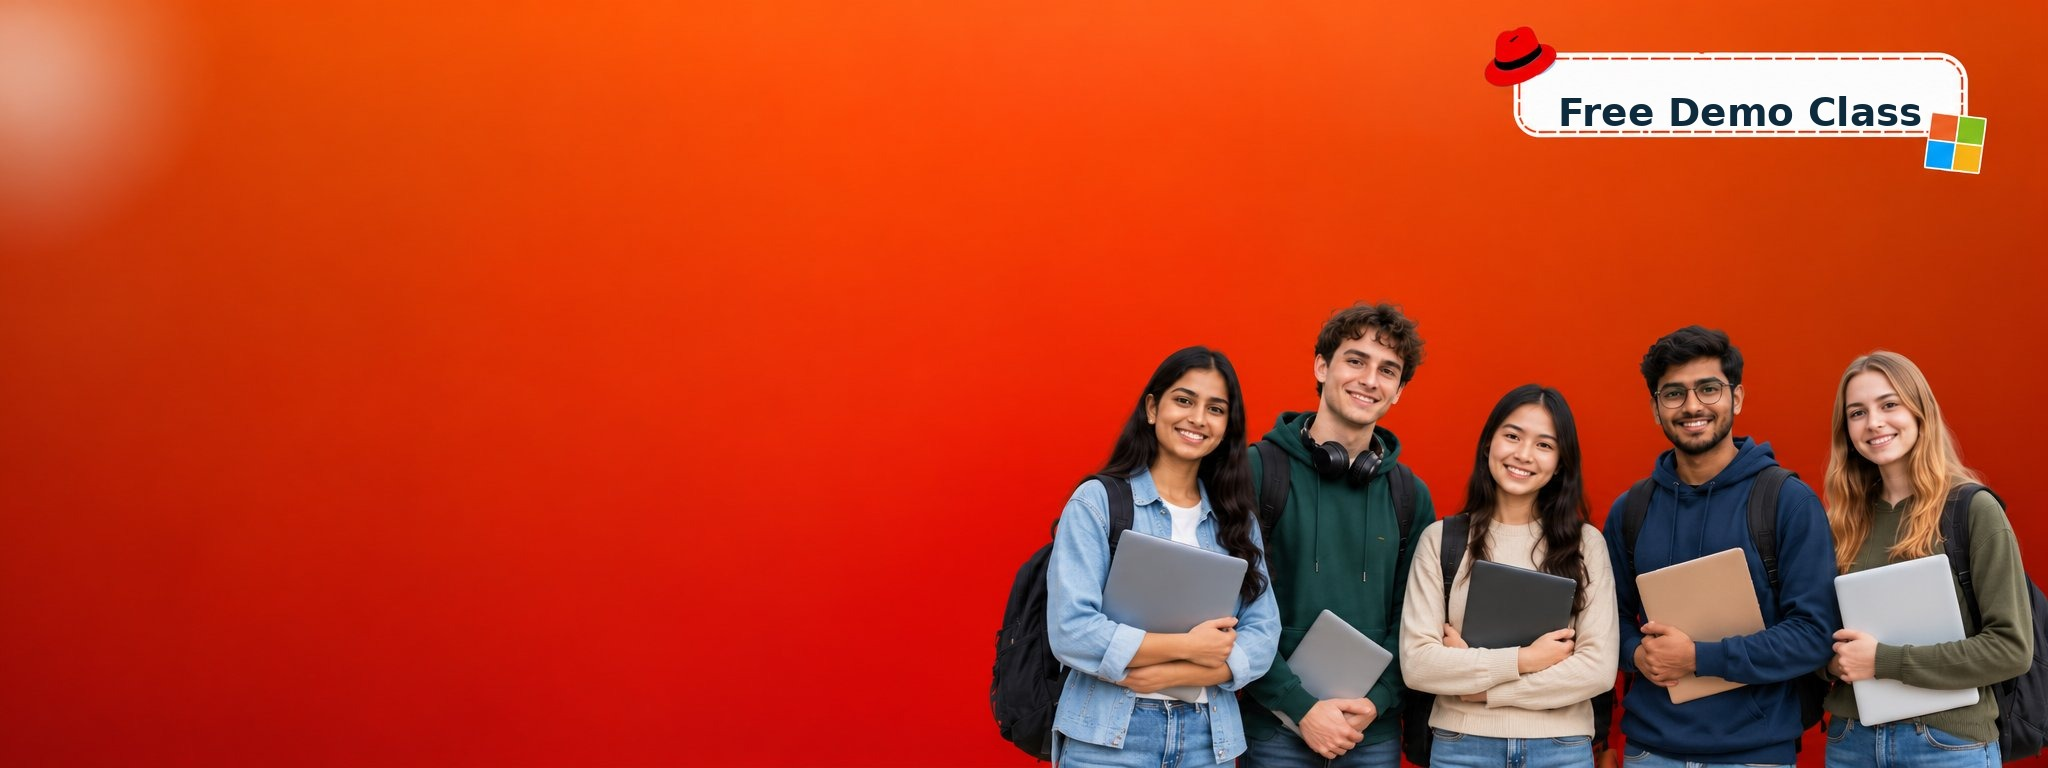
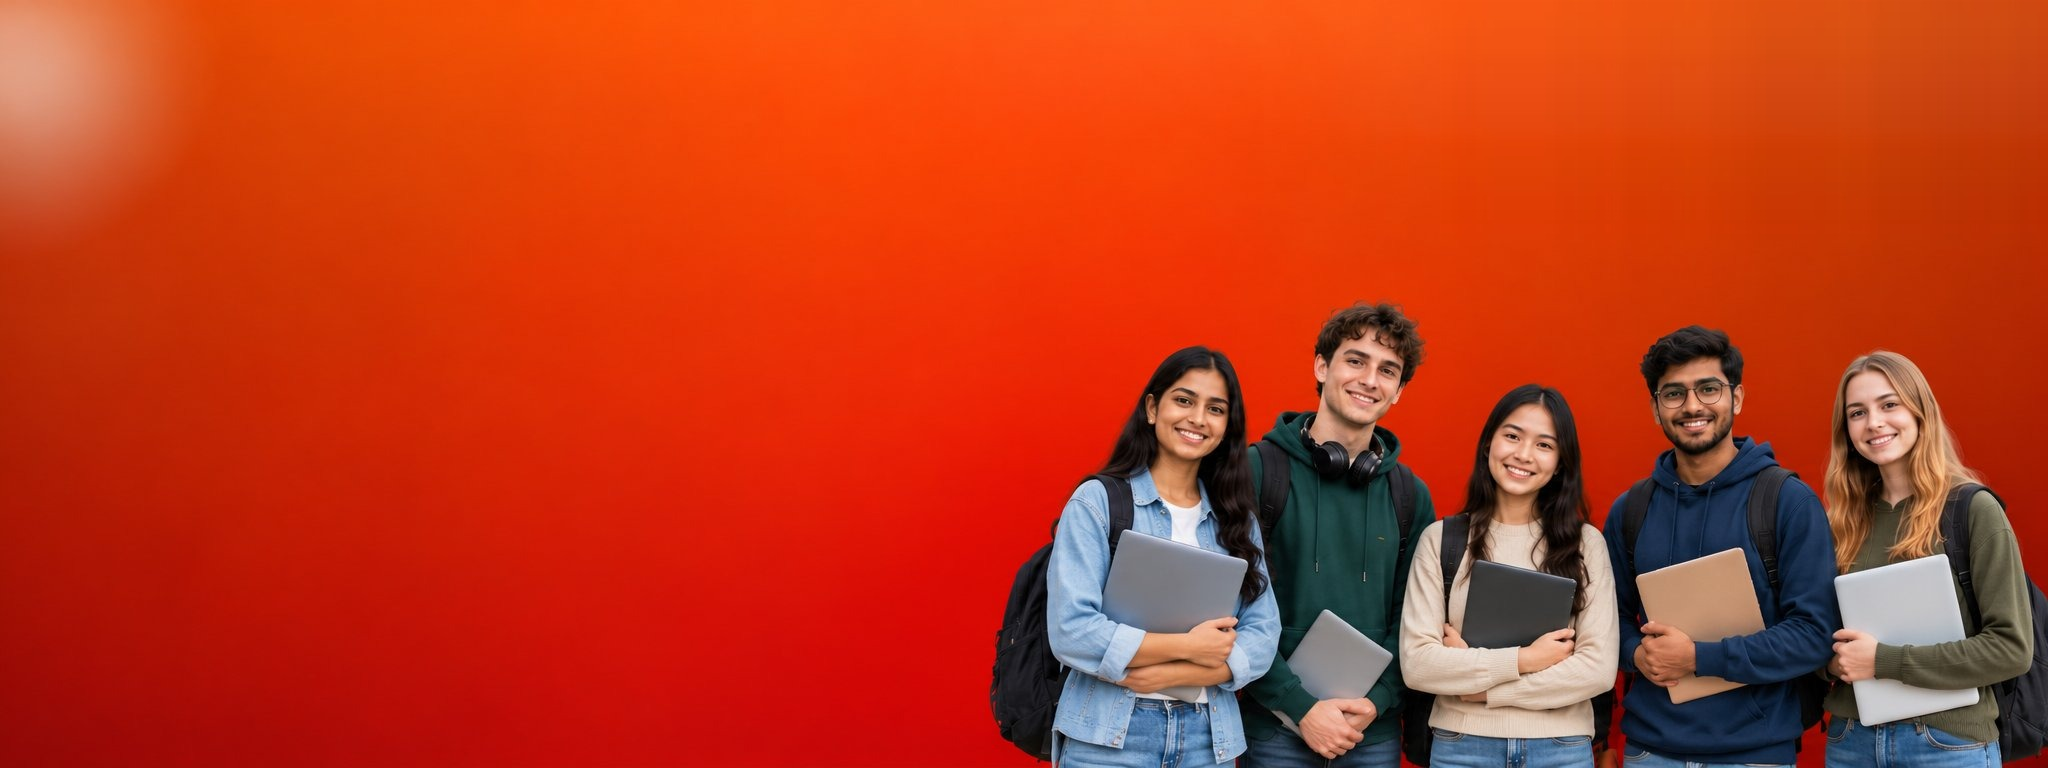
v2: hero readability + responsive fix (white headline, board erased, mobile students band)

Changed region(s): [[0.7188, 0.0312, 0.9688, 0.25]]

diff --git a/src/app/page.tsx b/src/app/page.tsx
@@ -48,6 +48,9 @@ export default async function HomePage() {
           black overlay (net ~20% presence) — visible but clearly behind
           the text, students anchored bottom-right. */}
       <section className="relative bg-heading text-white">
+        {/* Desktop/tablet: photo as a faded background. Mobile: the
+            cover crop cut students off, so the background is hidden
+            below md and the students band below renders instead. */}
         <Image
           src="/images/hero-students.jpg"
           alt=""
@@ -55,12 +58,12 @@ export default async function HomePage() {
           fill
           priority
           sizes="100vw"
-          className="object-cover object-right-bottom opacity-40"
+          className="hidden object-cover object-right-bottom opacity-40 md:block"
         />
-        <div className="absolute inset-0 bg-black/50" aria-hidden />
-        <div className="wrap relative py-20 md:py-28">
-          <h1 className="max-w-3xl text-5xl font-normal leading-tight md:text-[80px] md:leading-[96px]">
-            We Create Better <span className="font-extrabold text-brand">IT Solutions</span>
+        <div className="absolute inset-0 hidden bg-black/60 md:block" aria-hidden />
+        <div className="wrap relative py-20 pb-10 md:py-28">
+          <h1 className="max-w-3xl text-5xl font-normal leading-tight [text-shadow:0_2px_16px_rgba(0,0,0,0.65)] md:text-[80px] md:leading-[96px]">
+            We Create Better <span className="font-extrabold">IT Solutions</span>
           </h1>
           <p className="mt-5 max-w-2xl text-base leading-7 text-white/85">{homeParagraphs[1]}</p>
           <div className="mt-8 flex flex-wrap gap-4">
@@ -71,6 +74,17 @@ export default async function HomePage() {
               Our Services
             </Link>
           </div>
+        </div>
+        {/* Mobile: full students band, no crop — all five students fit. */}
+        <div className="relative md:hidden">
+          <Image
+            src="/images/hero-students-mobile.jpg"
+            alt=""
+            aria-hidden
+            width={968}
+            height={553}
+            className="block h-auto w-full"
+          />
         </div>
       </section>
       <section>

diff --git a/DECISIONS.md b/DECISIONS.md
@@ -460,3 +460,22 @@ Dimensions/tokens only; no routes, content, SEO, menus, or copy changed.
   1514-1966 x 54-169. Wording is his to swap on one word; the red hat
   and Microsoft mark in the same corner were left as supplied.
 - Home hero only; inner-page banners (PageHeader) untouched.
+
+## v2.3 — Hero visibility + responsive fix (2026-10-24, branch v2-leo-layout)
+
+- Headline was unreadable on the photo (brand-orange "IT Solutions"
+  over the orange photo; white text over the bright left glow): the
+  whole headline is now white ("IT Solutions" keeps extrabold only),
+  overlay strengthened 50% -> 60% black, headline gets a soft black
+  text-shadow. Mobile text sits on solid navy, no photo behind it.
+- White board removed: the photo's top-right corner (white dashed
+  box + red hat + MS logo, incl. the baked "Free Demo Class" text)
+  was erased by gradient continuation from the left/bottom borders
+  (smoothed profiles); the corner now reads as plain orange gradient
+  with no seam. Original upload untouched in workspace/user/files/.
+- Responsive hero: desktop/tablet keep the full photo as a faded
+  cover background (object-right-bottom); below md the background
+  is hidden and a dedicated students band
+  (public/images/hero-students-mobile.jpg, 968x553 crop of the
+  cleaned photo) renders full-width below the text — all five
+  students fit on phones, nothing cropped.
